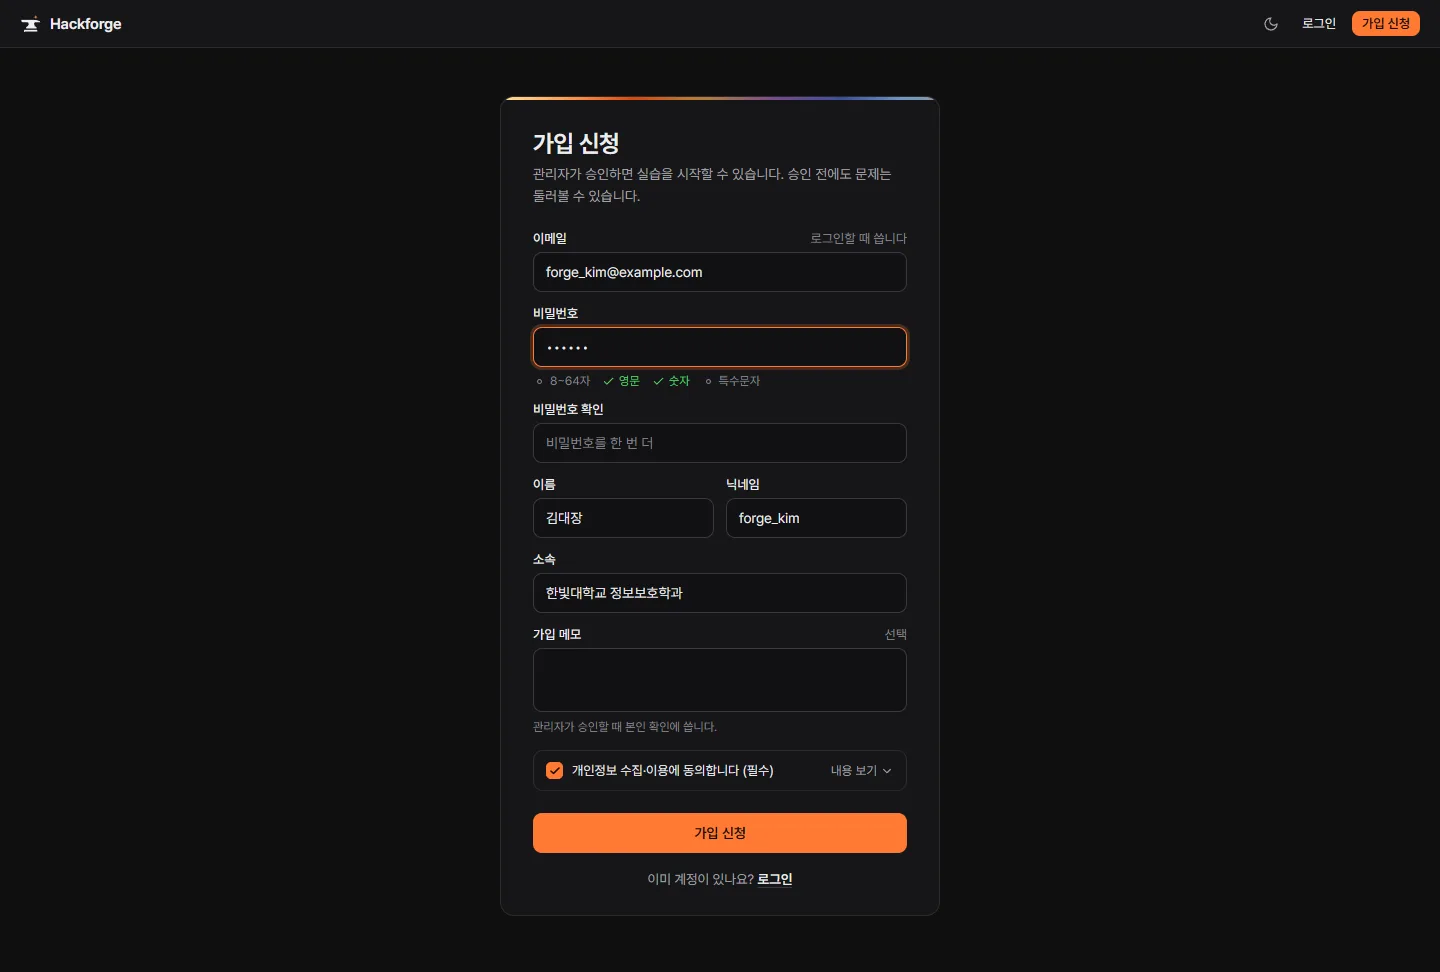
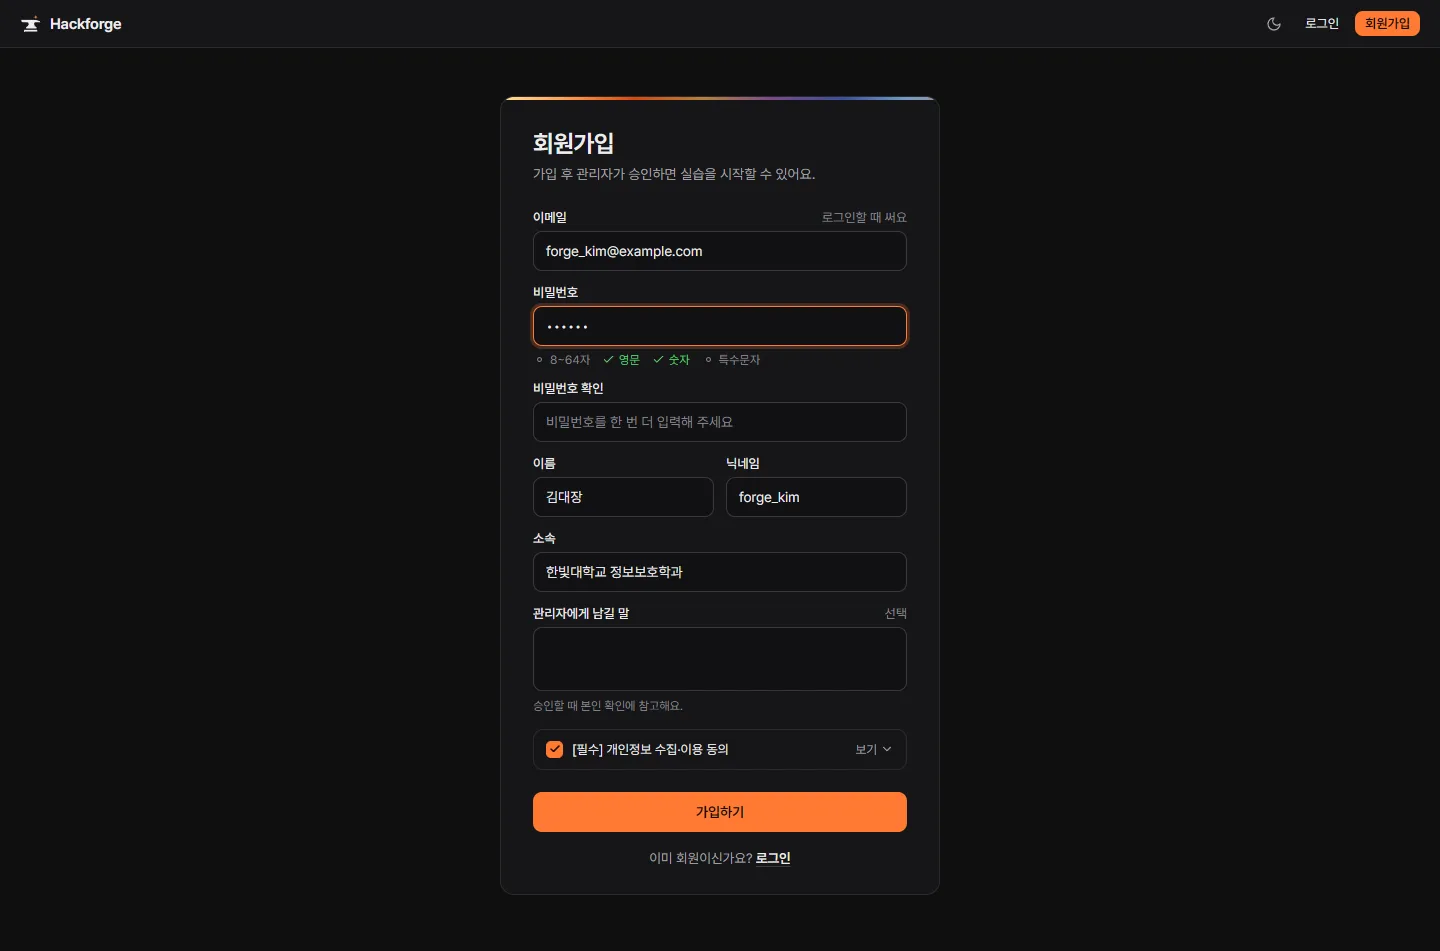
docs: 계정 화면 시안 문구를 해요체와 새 용어로(캡처, DESIGN.md)

diff --git a/DESIGN.md b/DESIGN.md
@@ -197,11 +197,11 @@ components:
 - 640px 미만: 로고 이름을 숨겨 가로로 넘치지 않게 한다
 
 ### 계정 화면 (2026-11-19 사람이 확정, 캡처 `design/screens/account-*`)
-- 로그인·가입 신청: 상단 줄 아래에 카드 하나(최대 폭 440px, 모서리 14px, 안쪽 여백 32px). 가로는 가운데, 세로는 가운데보다 살짝 위(위아래 여백 2:3)이고, 카드가 화면보다 길면 위에서 시작한다. 카드 위 가장자리에 담금질 색 선 3px(불티 노랑 → 불씨 → 보라 → 강철 파랑 → 회색). 제목 24px 600, 그 아래 한 줄 설명. 주 버튼은 폭 가득
-- 가입 신청은 이름과 닉네임을 한 줄에 두 칸으로. 가입 메모 칸은 예시 없이 비워 두고 아래에 "관리자가 승인할 때 본인 확인에 씁니다". 개인정보 동의는 체크 줄 오른쪽 "내용 보기"로 펼침(문구는 hackforge-docs ADR 018)
-- 내 계정: 제목과 패널 두 개(내 정보, 비밀번호 변경)를 640px 한 열로 묶어 화면 가운데에 둔다. 내 정보는 이름표와 값 두 열로 보기만 함. 담금질 선은 로그인·가입 카드에만 쓴다
-- 계정 관리: 본문 1240px 틀을 화면 가운데에 두고 그 안에서 왼쪽 정렬. 제목과 설명, 상태 탭(승인 대기, 승인됨, 거절됨, 탭마다 계정 수. 지금 탭의 수는 불씨 채움), 그 아래 표. 승인 대기 탭은 가입일·이름과 닉네임(아래 이메일)·소속·가입 메모·동작, 승인됨 탭은 가입 메모 대신 역할 칩. 동작 버튼은 줄 오른쪽 끝에 작은 보조 버튼(30px)으로, 승인만 초록 선과 글자
-- 관리자 본인 줄은 이름 옆에 "본인"을 붙이고 역할 변경과 임시 비밀번호를 막는다(본인 비밀번호는 내 계정에서)
+- 로그인·회원가입: 상단 줄 아래에 카드 하나(최대 폭 440px, 모서리 14px, 안쪽 여백 32px). 가로는 가운데, 세로는 가운데보다 살짝 위(위아래 여백 2:3)이고, 카드가 화면보다 길면 위에서 시작한다. 카드 위 가장자리에 담금질 색 선 3px(불티 노랑 → 불씨 → 보라 → 강철 파랑 → 회색). 제목 24px 600, 필요하면 그 아래 한 줄 설명(로그인은 제목만). 주 버튼은 폭 가득
+- 회원가입은 이름과 닉네임을 한 줄에 두 칸으로. "관리자에게 남길 말" 칸은 예시 없이 비워 두고 아래에 "승인할 때 본인 확인에 참고해요". 개인정보 동의는 "[필수] 개인정보 수집·이용 동의" 체크 줄 오른쪽 "보기"로 펼침(문구는 hackforge-docs ADR 018, 하십시오체)
+- 내 정보: 제목과 패널 두 개(기본 정보, 비밀번호 변경)를 640px 한 열로 묶어 화면 가운데에 둔다. 기본 정보는 이름표와 값 두 열로 보기만 함. 담금질 선은 로그인·가입 카드에만 쓴다
+- 회원 관리: 본문 1240px 틀을 화면 가운데에 두고 그 안에서 왼쪽 정렬. 제목과 설명, 상태 탭(승인 대기, 승인 완료, 거절, 탭마다 회원 수. 지금 탭의 수는 불씨 채움), 그 아래 표. 승인 대기 탭은 가입일·이름과 닉네임(아래 이메일)·소속·남길 말·동작, 승인 완료 탭은 남길 말 대신 권한 칩. 동작 버튼은 줄 오른쪽 끝에 작은 보조 버튼(30px)으로, 승인만 초록 선과 글자
+- 관리자 자신의 줄은 이름 옆에 "나"를 붙이고 권한 변경과 임시 비밀번호를 막는다(내 비밀번호는 내 정보에서)
 - 빈 목록은 표 자리 가운데에 굵은 한 줄과 설명 한 줄
 
 ### 소개 화면 (로그인 전, 반응형)
@@ -236,16 +236,16 @@ components:
 
 ### 입력 칸과 안내
 - 입력 칸 높이 40px, 모서리 9px, 선은 `input`. 포커스는 불씨 선과 옅은 불씨 고리 3px, 오류는 FAIL 선
-- 이름표는 칸 위 13px 500. 오른쪽 끝에 보조 설명(선택, 로그인할 때 씁니다)을 흐린 글자로
+- 이름표는 칸 위 13px 500. 오른쪽 끝에 보조 설명(선택, 로그인할 때 써요)을 흐린 글자로
 - 칸별 오류는 칸 바로 아래 FAIL 글자 12.5px와 느낌표 아이콘. 백엔드 `fieldErrors`도 같은 자리에
 - 비밀번호 규칙(8~64자, 영문, 숫자, 특수문자)은 칸 아래 한 줄에 두고, 입력하는 동안 맞는 것부터 PASS 체크로 바뀜
-- 폼 전체 안내는 제목 아래 상자로: 오류·잠김은 FAIL 옅은 면과 선, 알림(가입 접수)은 불씨 옅은 면, 성공은 PASS 옅은 면. 잠김처럼 할 일이 있으면 굵은 제목 한 줄과 설명
+- 폼 전체 안내는 제목 아래 상자로: 오류·잠김은 FAIL 옅은 면과 선, 알림(회원가입 완료)은 불씨 옅은 면, 성공은 PASS 옅은 면. 잠김처럼 할 일이 있으면 굵은 제목 한 줄과 설명
 
 ### 확인 창
 - 가운데 창(폭 420px, 모서리 14px)과 바탕을 어둡게 덮는 막. 제목은 무엇을 할지 묻는 한 문장("이수민 님의 가입을 거절할까요?"), 설명은 결과(로그인 종료, 되돌릴 수 있는지)
-- 버튼은 오른쪽 아래에 [취소] [실행] 순서. 실행 버튼 이름은 동작 그대로(거절, 역할 변경). 거절처럼 사람을 막는 동작은 FAIL 채움, 나머지는 불씨 채움(2026-11-19 사람이 결정: 취소 왼쪽 유지). 앞으로 생기는 확인 창(실습 종료, 초기화)도 같은 순서
-- 역할 변경은 창 안에서 역할 셋 중 하나를 고름(지금 역할에 "지금" 표시)
-- 임시 비밀번호 창: 발급 확인 창을 거친 뒤 열림. 비밀번호를 고정폭 글자로 크게 보이고 오른쪽에 복사 버튼, 아래에 "이 창을 닫으면 다시 볼 수 없습니다" 경고 상자. 닫는 버튼은 하나("전달했습니다")
+- 버튼은 오른쪽 아래에 [취소] [실행] 순서. 실행 버튼 이름은 동작으로(거절하기, 변경하기, 발급하기). 알리기만 하는 창은 [확인] 하나. 거절처럼 사람을 막는 동작은 FAIL 채움, 나머지는 불씨 채움(2026-11-19 사람이 결정: 취소 왼쪽 유지). 앞으로 생기는 확인 창(실습 종료, 초기화)도 같은 순서
+- 권한 변경은 창 안에서 권한 셋 중 하나를 고름(지금 권한에 "현재" 표시)
+- 임시 비밀번호 창: 발급 확인 창을 거친 뒤 열림. 비밀번호를 고정폭 글자로 크게 보이고 오른쪽에 복사 버튼, 아래에 "창을 닫으면 다시 볼 수 없어요" 경고 상자. 제목은 "임시 비밀번호를 발급했어요", 닫는 버튼은 [확인] 하나
 
 ### 판정
 - PASS 배지: 초록 테두리와 글자. FAIL 배지: 빨강 채움과 흰 글자
